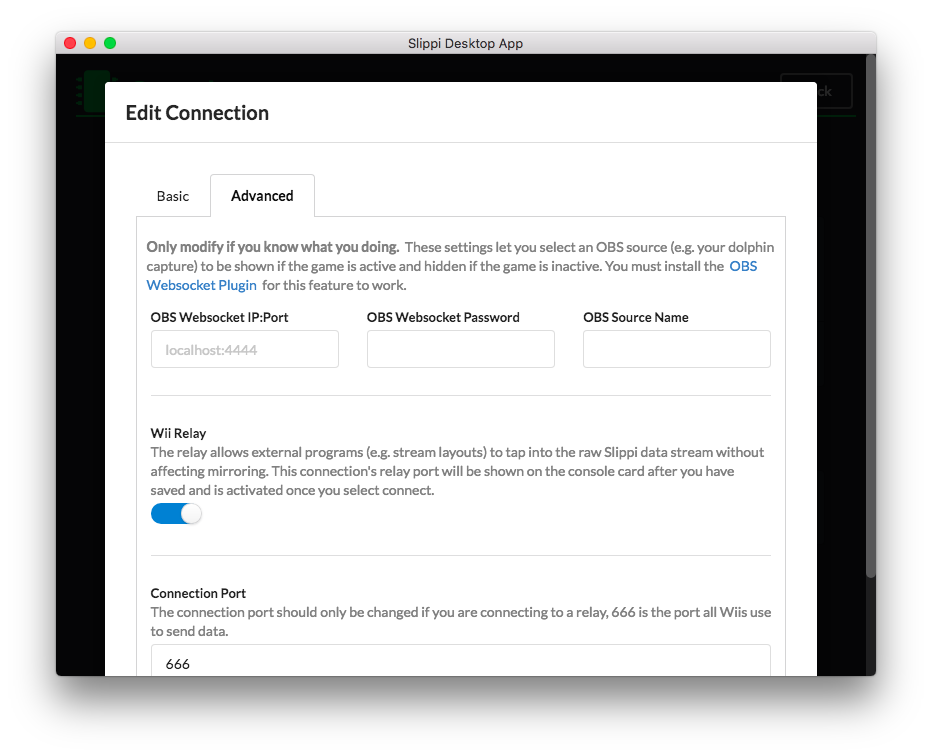
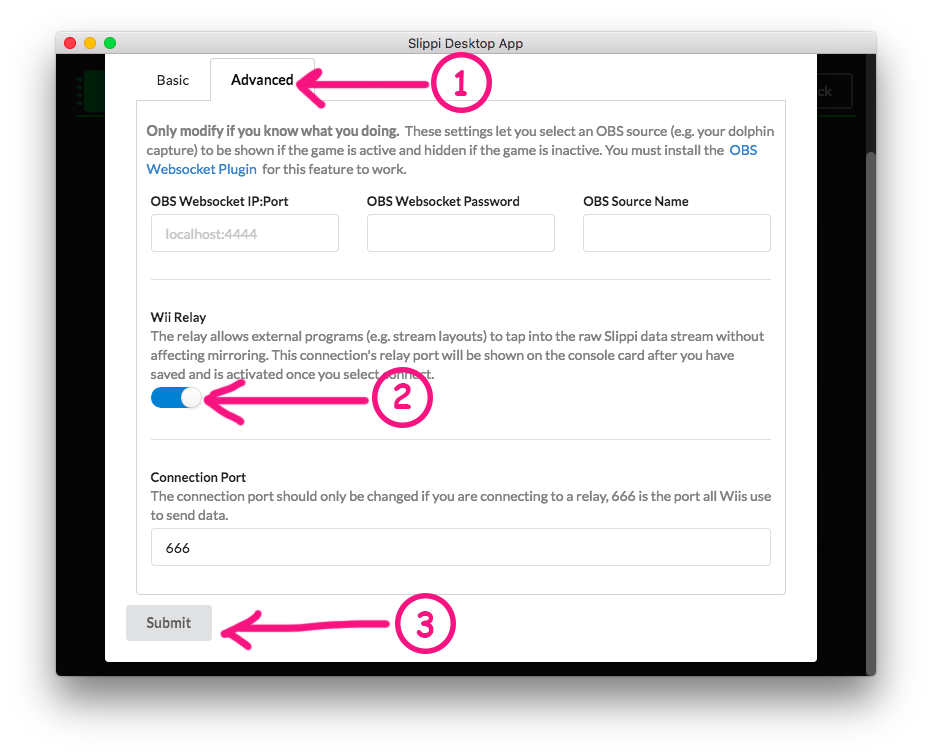
Update docs

diff --git a/CONTRIBUTING.md b/CONTRIBUTING.md
@@ -1,0 +1,20 @@
+# Contributing
+
+If you found Project Clippi useful and would like to give back here's how you can:
+
+* If you have ideas for new features, or would like to report a bug, please fill out this form, or tweet at [@ProjectClippi](https://twitter.com/ProjectClippi).
+* If you are gifted in the way of code, you can help by adding more detectable events and more executable actions. Check out the docs for the library and the source code for the front-end.
+
+## Donations
+
+Currently, Australia is battling the worst bushfires it has ever seen. Almost 15 million acres have been burned, and almost half a billion animals have died or lost their habitat. The air quality has been reaching more than 11 times hazardous levels, at least 25 people have died, hundreds of thousands of people have been displaced, and that's not the worst of it. **The fire is still burning uncontrollably. Right. Now.**
+
+If you are financially able, please donate to any of the following bushfire relief organisations. **For all donations of $5 or more, I will highly prioritise your feedback and requested features. For all donations of $10 or more, I will also include your name (and/or gamer tag) in a list of Project Clippi supporters to be included in the main page as well as in the app itself.**
+
+* [Red Cross](https://fundraise.redcross.org.au/drr) - supporting the people who have been impacted by the bushfires
+* [NSW Rural Fire Service](https://www.rfs.nsw.gov.au/volunteer/support-your-local-brigade) - supporting firefighters and volunteers
+* [Wires Wildlife Rescue](https://www.wires.org.au/donate/online) - helping animals that are impacted by the bushfires
+* [Foodbank](https://www.foodbank.org.au/support-us/make-a-donation/donate-funds/?state=au) - send food and supplies to affected communities
+* [Community Enterprise Foundation's Victoria Bushfire Disaster Appeal](https://www.communityenterprisefoundation.com.au/make-a-donation/bushfire-disaster-appeal/) - for affected communities in East Gippsland, north-east VIC, south-east NSW, and Adelaide Hills
+
+After donating, leave your feedback using the feedback form, or tweet at [@ProjectClippi](https://twitter.com/ProjectClippi) with a proof of donation. If you donated because of Project Clippi, but don't want anything in return (bless your soul), tweet at [@ProjectClippi](https://twitter.com/ProjectClippi) anyway so I can thank you for your support.

diff --git a/docs/connect_to_relay/README.md b/docs/connect_to_relay/README.md
@@ -1,6 +1,6 @@
 # Connecting to a Slippi Relay
 
-This tutorial assumes that you have Slippi mirroring already set up. If you have not set up Slippi mirroring, [follow this guide](https://docs.google.com/document/d/1ezavBjqVGbVO8aqSa5EHfq7ZflrTCvezRYjOf51MOWg/edit) first before following the below steps.
+This tutorial assumes that you have Slippi mirroring already set up. If you have not set up Slippi mirroring, follow [the Slippi mirroring guide](https://docs.google.com/document/d/1ezavBjqVGbVO8aqSa5EHfq7ZflrTCvezRYjOf51MOWg/edit) first before following the steps below.
 
 ## 1. Setup Slippi Desktop App
 
